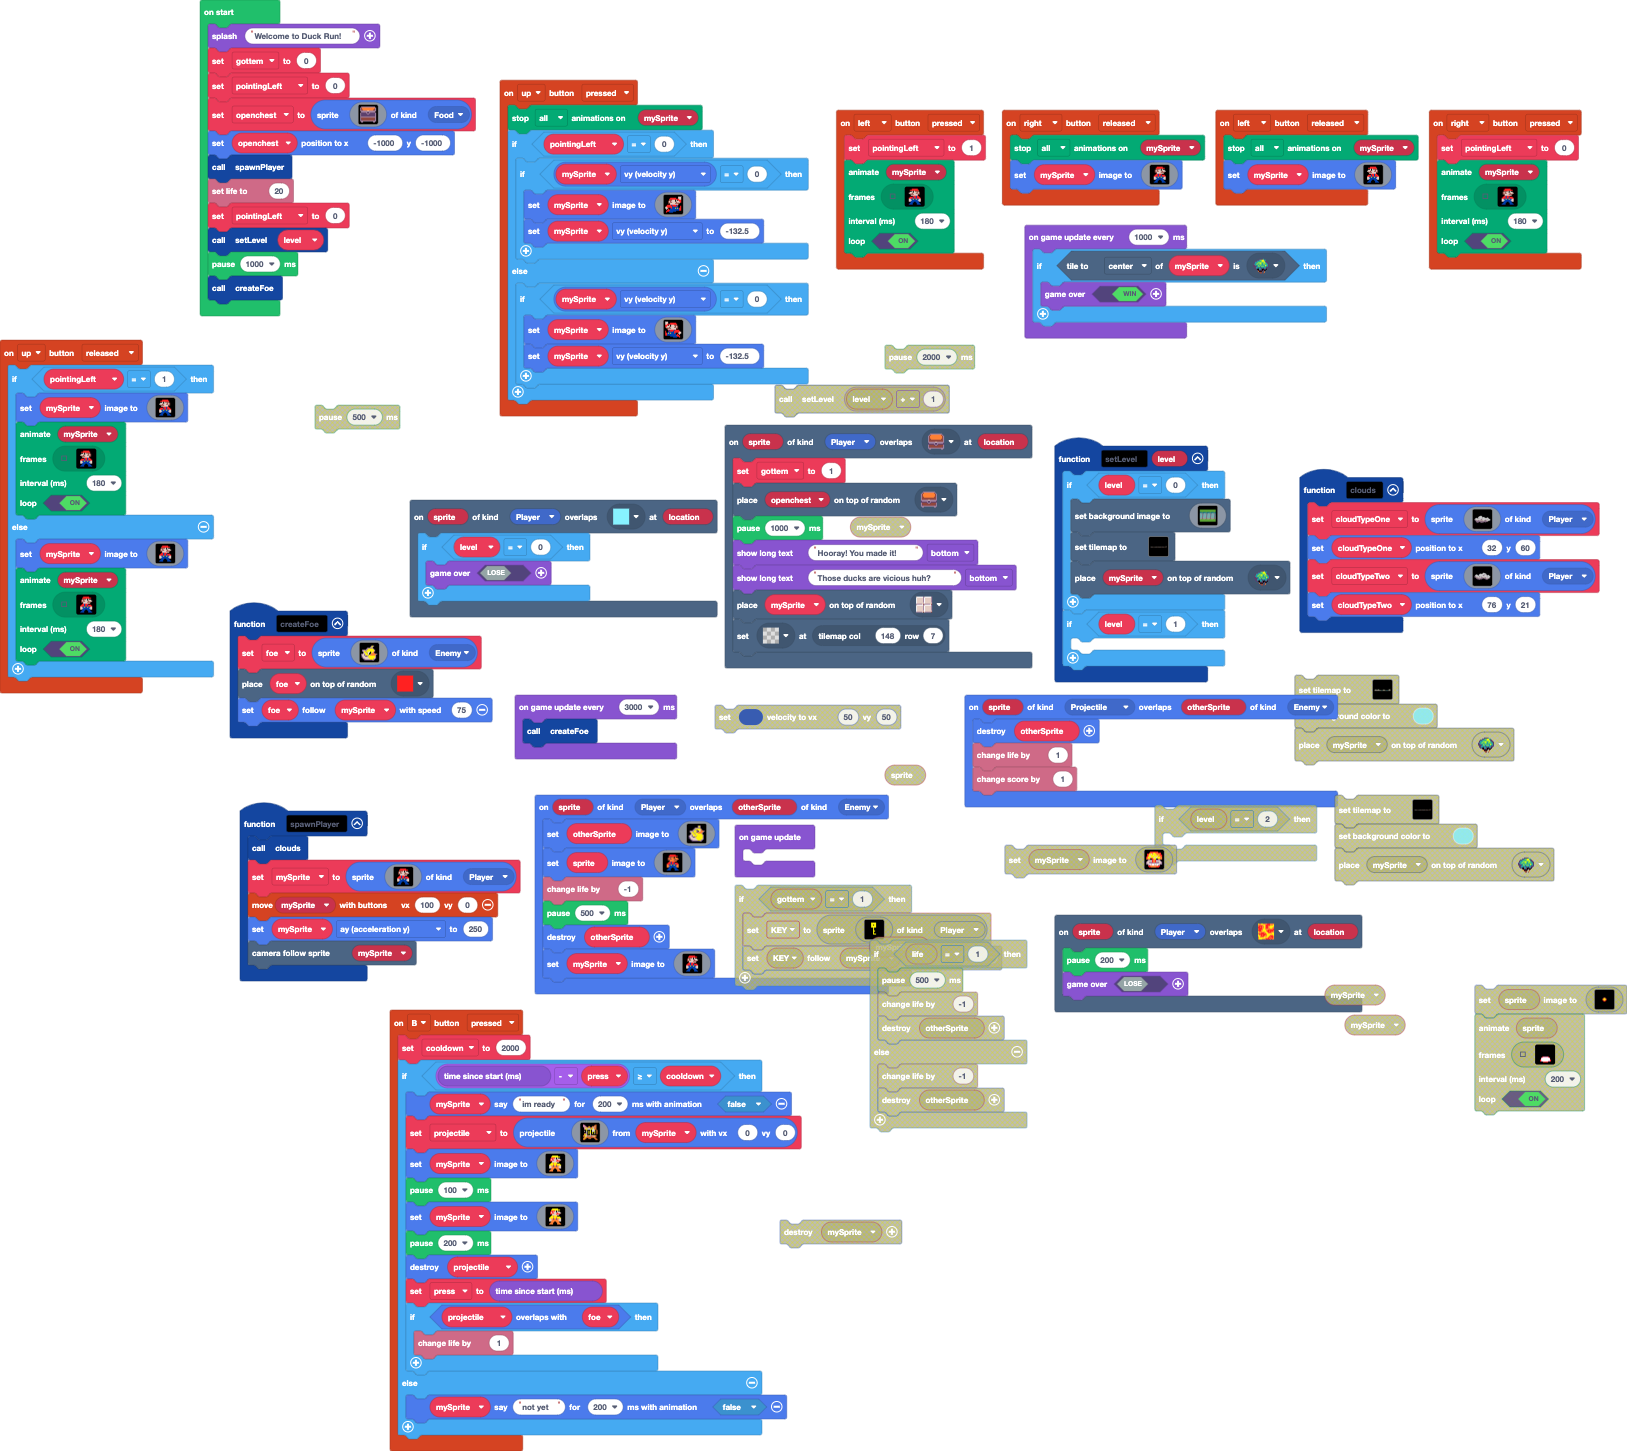
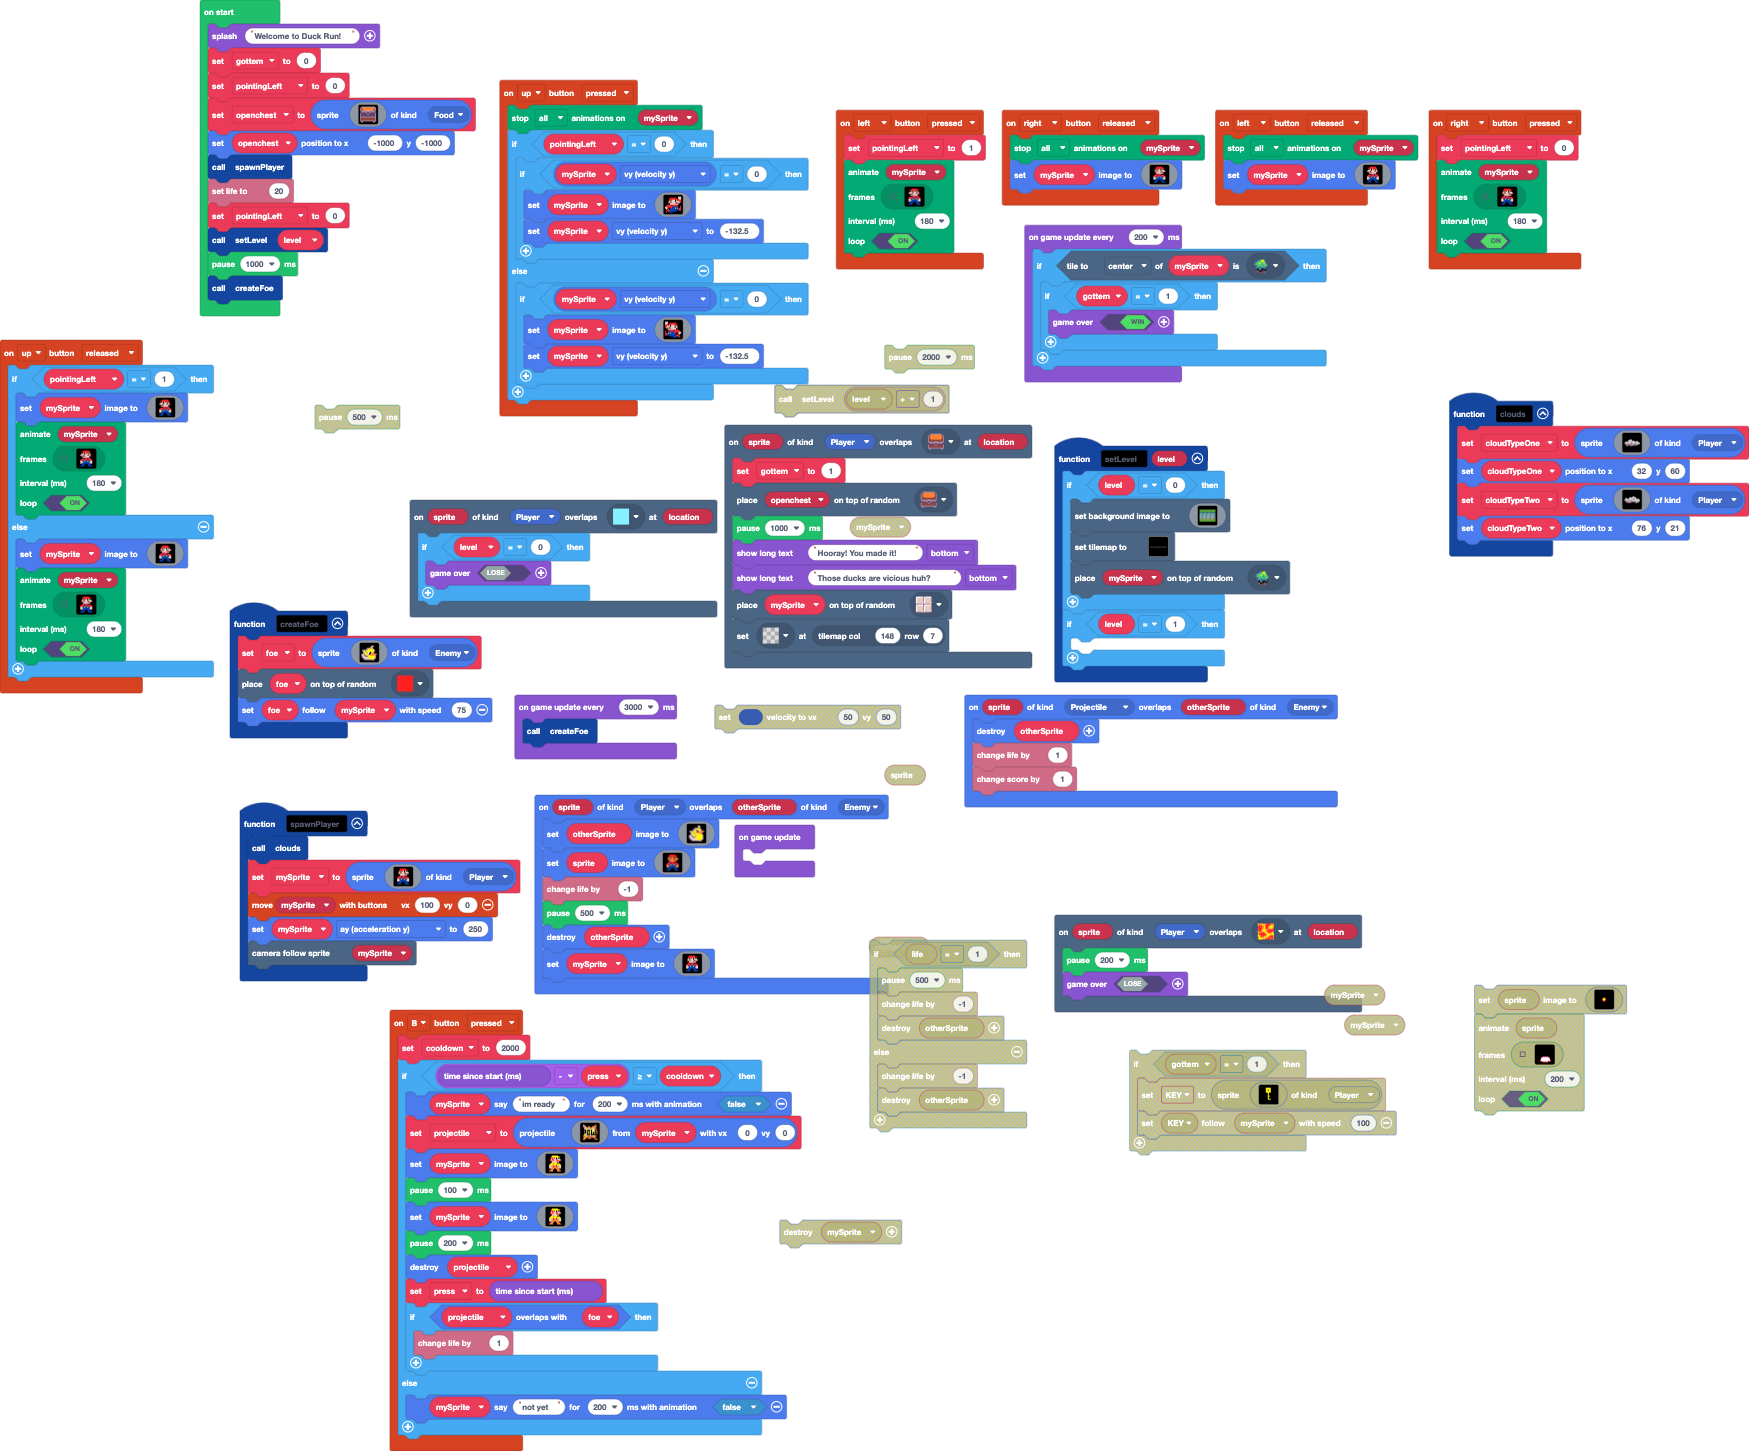
Update main.blocks, main.ts

diff --git a/main.ts b/main.ts
@@ -594,11 +594,13 @@ createFoe()
 game.onUpdate(function () {
 	
 })
-game.onUpdateInterval(1000, function () {
-    if (mySprite.tileKindAt(TileDirection.Center, sprites.castle.saplingOak)) {
-        game.over(true)
-    }
-})
 game.onUpdateInterval(3000, function () {
     createFoe()
+})
+game.onUpdateInterval(200, function () {
+    if (mySprite.tileKindAt(TileDirection.Center, sprites.castle.saplingOak)) {
+        if (gottem == 1) {
+            game.over(true)
+        }
+    }
 })
